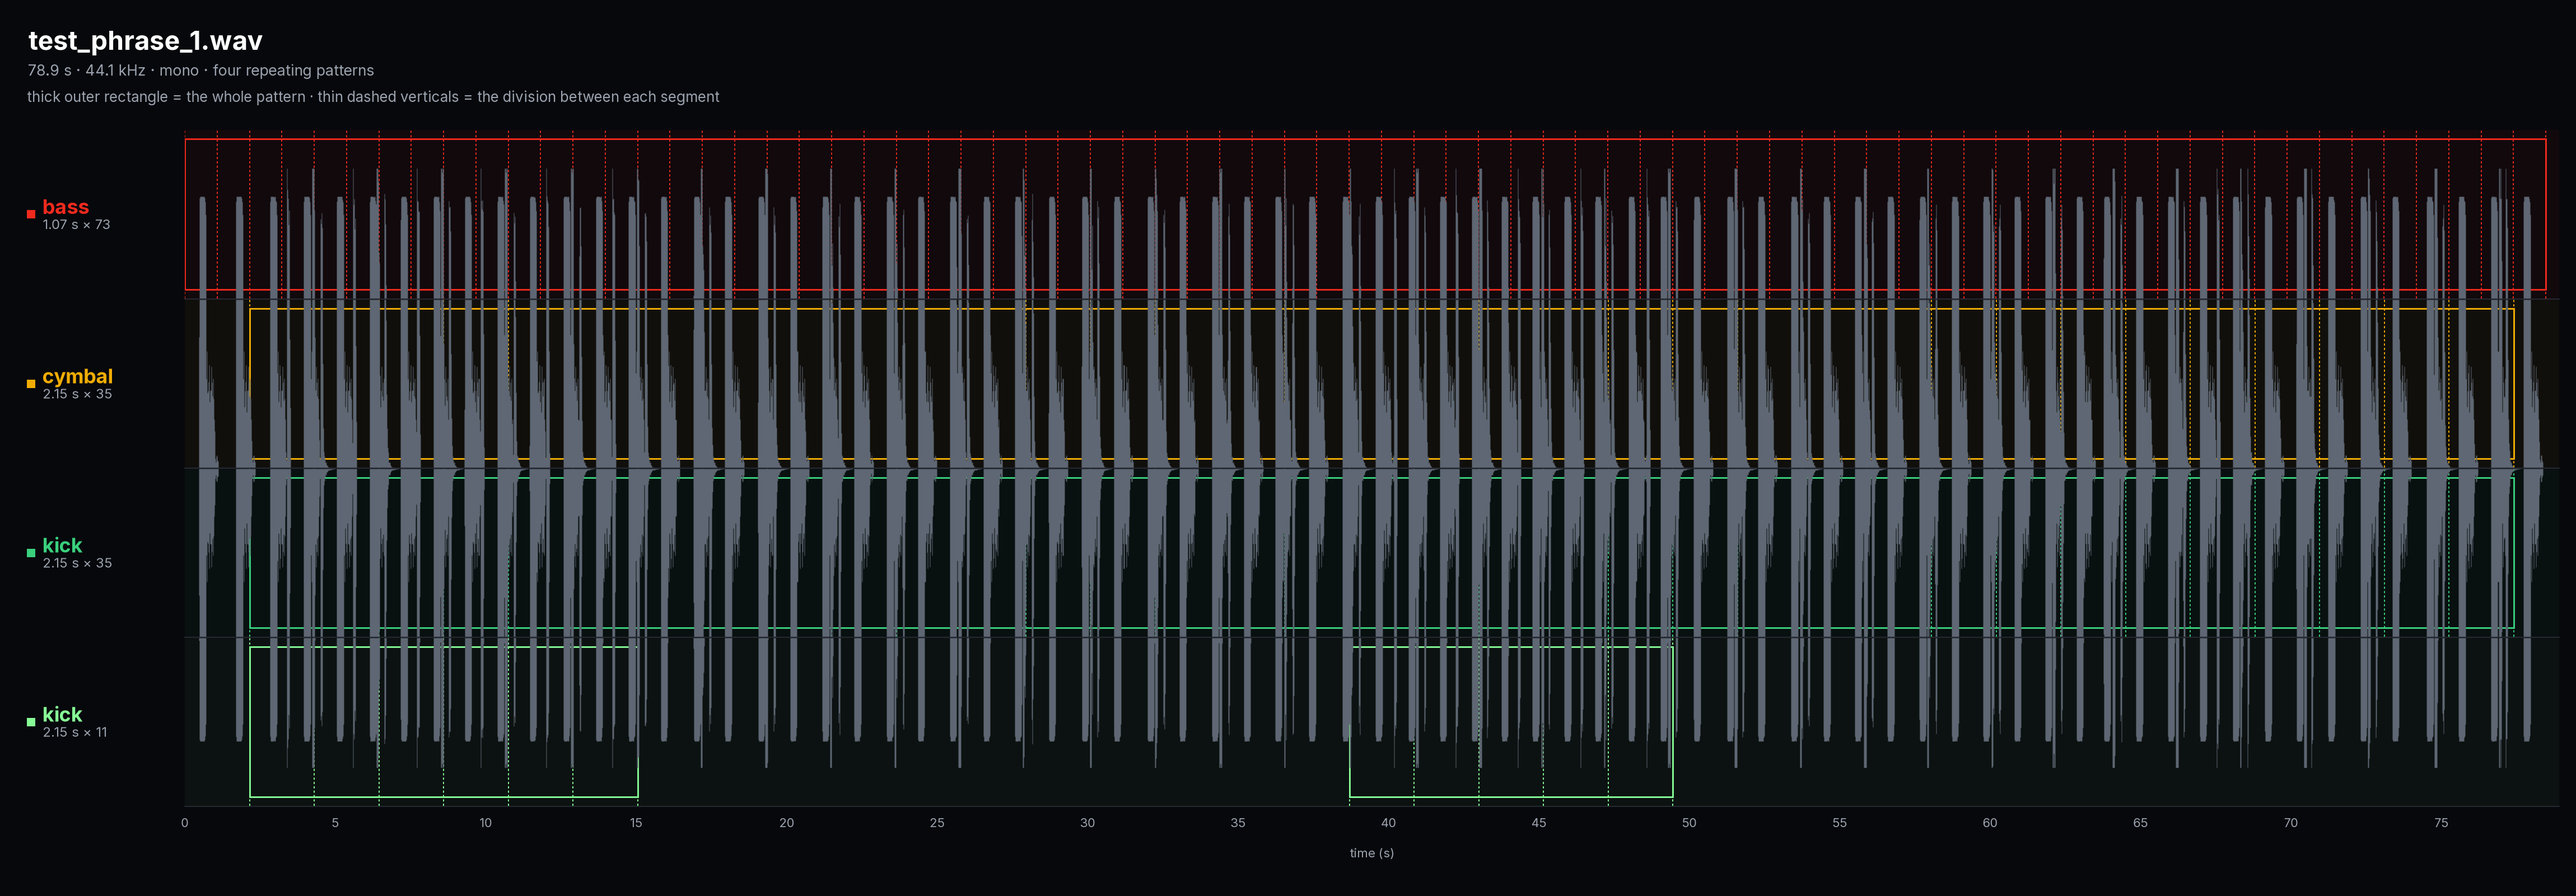
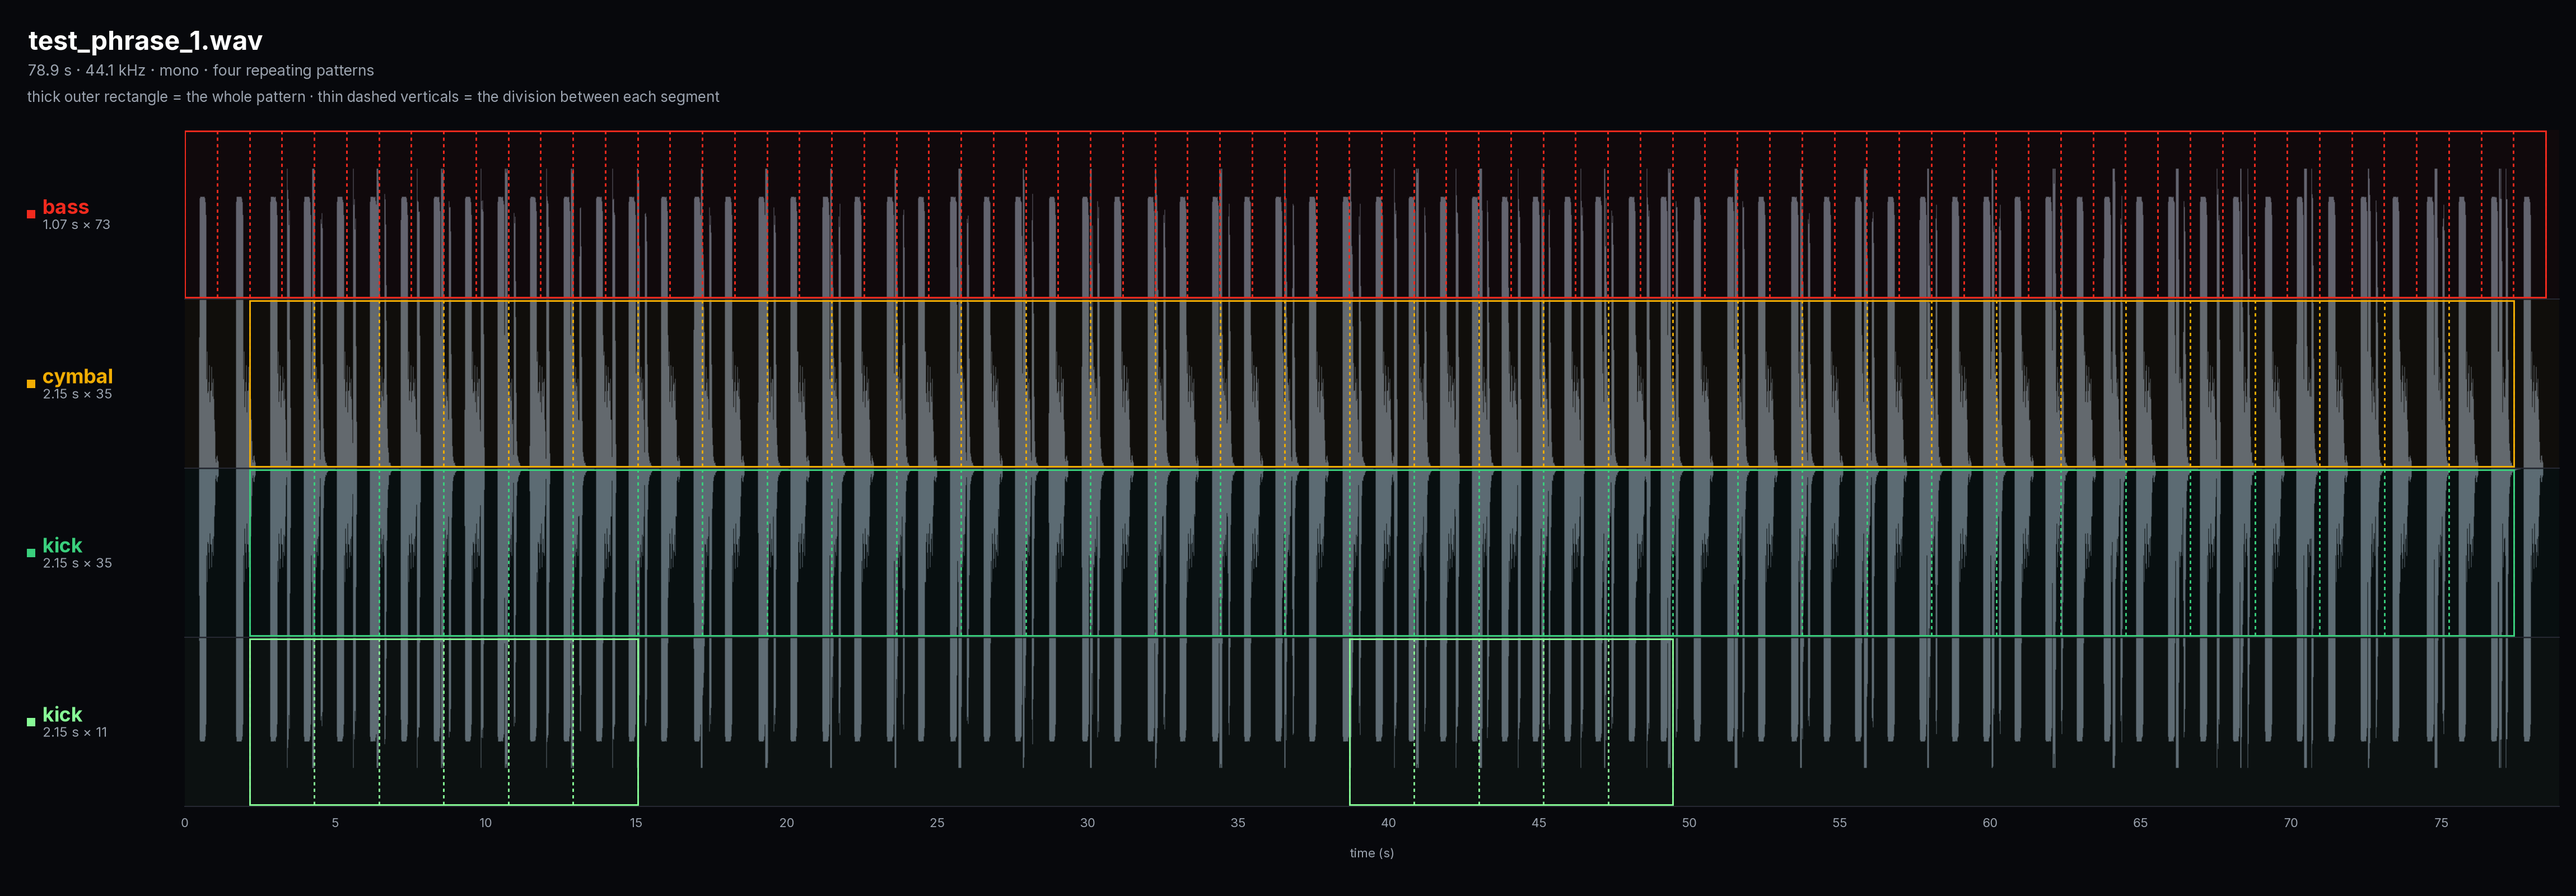
Draw the calibration trace behind the segment grid and boxes
The trace was painted over the dashed grid and the pattern boxes, so it
broke both outlines wherever it crossed them. It now sits at the back, the
row tint is laid over it, and the dashed lines stop at their box and use the
box's own weight. The boxes also grew to nearly fill their rows instead of
leaving a wide gutter between neighbouring patterns.

🤖 Generated with Codebuff

diff --git a/skills/analyze-palettes/calibration_tests/make_test_phrase_1.py b/skills/analyze-palettes/calibration_tests/make_test_phrase_1.py
@@ -19,16 +19,16 @@ W, H, DPI = 4600, 1600, 200
 LEFT, RIGHT, TOP, BOTTOM = 330, 4570, 232, 1439
 BG, WAVE, MUTED, RULE = "#07080c", "#5e6773", "#9aa2ae", "#262832"
 
-# name, color, band, band top/bottom (px), pattern start, loop, (index, segments)
-# spans, envelope range mapped onto the row, and the edge the trace grows from
+# name, color, band top/bottom (px), pattern start, loop, (index, segments) spans,
+# envelope range mapped onto the row, and the edge the trace grows from
 ROWS = [
-    ("bass", "#f12a1e", "#11090c", (232, 533), 0.0, 1.074910, [(0, 73)], (0.543, 1.135), "bottom"),
-    ("cymbal", "#f1ad03", "#110f0b", (535, 835), 2.158, 2.149700, [(0, 35)], (0.006, 0.673), "bottom"),
-    ("kick", "#3ad07d", "#091010", (837, 1137), 2.158, 2.149700, [(0, 35)], (0.001, 0.695), "top"),
-    ("kick", "#87fa96", "#0c1211", (1139, 1439), 2.158, 2.149700, [(0, 6), (17, 5)], (0.514, 1.143), "top"),
+    ("bass", "#f12a1e", (232, 533), 0.0, 1.074910, [(0, 73)], (0.543, 1.135), "bottom"),
+    ("cymbal", "#f1ad03", (535, 835), 2.158, 2.149700, [(0, 35)], (0.006, 0.673), "bottom"),
+    ("kick", "#3ad07d", (837, 1137), 2.158, 2.149700, [(0, 35)], (0.001, 0.695), "top"),
+    ("kick", "#87fa96", (1139, 1439), 2.158, 2.149700, [(0, 6), (17, 5)], (0.514, 1.143), "top"),
 ]
 
-PAD_TOP, PAD_BOTTOM = 15.5, 16.5  # px between a pattern box and its row edges
+PAD = 2  # px between a pattern box and its row edges
 
 
 def env_at(sr, x, edges):
@@ -62,23 +62,21 @@ def main():
     edges = np.linspace(0, duration, RIGHT - LEFT + 1)
     env = env_at(sr, x, edges)
 
-    for name, color, band, (top, bottom), start, loop, spans, (lo, hi), anchor in ROWS:
-        ax.add_patch(Rectangle((0, y(bottom)), duration, y(top) - y(bottom),
-                               facecolor=band, edgecolor="none", zorder=0))
-
-        for seg, count in spans:
-            for j in range(count + 1):
-                ax.plot([start + (seg + j) * loop] * 2, [y(bottom), y(top)], color=color,
-                        lw=0.7, dashes=(2.0, 2.0), zorder=1)
-            x0, x1 = start + seg * loop, start + (seg + count) * loop
-            ax.add_patch(Rectangle((x0, y(bottom - PAD_BOTTOM)), x1 - x0,
-                                   y(top + PAD_TOP) - y(bottom - PAD_BOTTOM), fill=False,
-                                   edgecolor=color, lw=1.05, zorder=2))
-
+    for name, color, (top, bottom), start, loop, spans, (lo, hi), anchor in ROWS:
         level = np.clip((env - lo) / (hi - lo), 0, 1) * (bottom - top) / (BOTTOM - TOP)
         base = y(bottom) if anchor == "bottom" else y(top)
         ax.fill_between(edges[:-1], base, base + level if anchor == "bottom" else base - level,
-                        step="post", color=WAVE, lw=0, zorder=3)
+                        step="post", color=WAVE, lw=0, zorder=0)
+        ax.add_patch(Rectangle((0, y(bottom)), duration, y(top) - y(bottom),
+                               facecolor=color, alpha=0.04, edgecolor="none", zorder=1))
+
+        for seg, count in spans:
+            for j in range(count + 1):
+                ax.plot([start + (seg + j) * loop] * 2, [y(bottom - PAD), y(top + PAD)],
+                        color=color, lw=1.05, dashes=(2.0, 2.0), zorder=2)
+            x0, x1 = start + seg * loop, start + (seg + count) * loop
+            ax.add_patch(Rectangle((x0, y(bottom - PAD)), x1 - x0, y(top + PAD) - y(bottom - PAD),
+                                   fill=False, edgecolor=color, lw=1.05, zorder=3))
 
         fig.add_artist(Rectangle((48 / W, 1 - ((top + bottom) / 2 + 7.5) / H), 15 / W, 15 / H,
                                  transform=fig.transFigure, facecolor=color,
